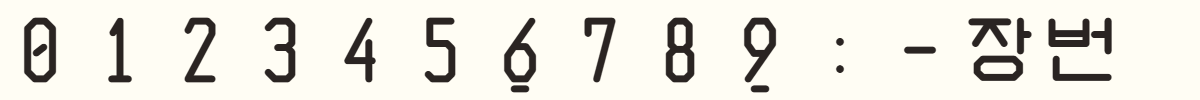
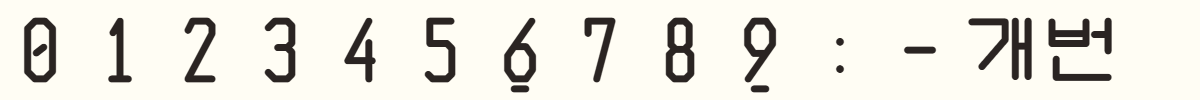
Fix long times and hint units in shared records; count Note 06 active time
Claude-Session: https://claude.ai/code/session_014xZr56KSBxKkeAwG41ZnWC

Changed region(s): [[0.8017, 0.18, 0.8633, 0.81]]

diff --git a/share.js b/share.js
@@ -31,7 +31,7 @@
     try{const w=localStorage.getItem('hn.wrong.'+NOTE);if(w!==null&&/^\d+$/.test(w))wrong=+w}catch{}
     return {ok,ms,hints,wrong};
   }
-  const fmt=ms=>{const m=Math.floor(ms/60000),s=Math.floor(ms/1000)%60;return EN?(m?`${m}m ${s}s`:`${s}s`):(m?`${m}분 ${s}초`:`${s}초`)};
+  const fmt=ms=>{const H=Math.floor(ms/3600000),m=Math.floor(ms/60000)%60,s=Math.floor(ms/1000)%60;return EN?(H?`${H}h ${m}m`:m?`${m}m ${s}s`:`${s}s`):(H?`${H}시간 ${m}분`:m?`${m}분 ${s}초`:`${s}초`)};
   // 공유 문구: 카톡 등에 글로 보이는 기록 (걸린 시간 · 힌트 · 틀린 암호) + 주소(미리보기 카드는 og 이미지)
   function recordText(){
     const r=rec(),g=grade()||(r.ok?T.done:T.open);
@@ -71,8 +71,8 @@
     const q=new URLSearchParams(location.search),r=q.get('r');if(!r)return;
     const num=k=>{const v=q.get(k);return v!==null&&/^\d{1,6}$/.test(v)?+v:-1};
     const t=num('t'),h=num('h'),w=num('w'),esc=s=>s.replace(/[&<>"]/g,c=>({'&':'&amp;','<':'&lt;','>':'&gt;','"':'&quot;'}[c]));
-    const clock=s=>`${Math.floor(s/60)}:${String(s%60).padStart(2,'0')}`;
-    const rows=[t>=0&&[T.time,clock(t)],h>=0&&[T.hints,EN?h:h+'장'],w>=0&&[T.wrong,EN?w:w+'번']].filter(Boolean);
+    const clock=s=>s>=3600?`${Math.floor(s/3600)}:${String(Math.floor(s/60)%60).padStart(2,'0')}:${String(s%60).padStart(2,'0')}`:`${Math.floor(s/60)}:${String(s%60).padStart(2,'0')}`;
+    const rows=[t>=0&&[T.time,clock(t)],h>=0&&[T.hints,EN?h:h+'개'],w>=0&&[T.wrong,EN?w:w+'번']].filter(Boolean);
     const css=document.createElement('style');css.textContent=`.hnfr{position:fixed;inset:0;z-index:9999;background:rgba(20,16,12,.62);display:flex;align-items:center;justify-content:center;padding:16px}
 .hnfr .c{width:100%;max-width:420px;background-color:#fffdf4;background-image:repeating-linear-gradient(transparent 0 37px,#c9d3e6 37px 38px);border-left:3px solid #e6a3a0;padding:20px 22px 18px;box-shadow:0 20px 40px rgba(0,0,0,.4);color:#2a2422;font-family:"Kkakdugi Drafting",var(--mono,monospace)}
 .hnfr .who{font-size:13px;color:#6b6358;margin:0 0 10px}

diff --git a/api/og.js b/api/og.js
@@ -13,8 +13,10 @@ module.exports=(req,res)=>{
     let file=`note${n}-${g}.png`;if(!n||!fs.existsSync(path.join(DIR,file)))file=`note${n||'02'}-0.png`;
     const b=load(file),base={w:b.w,h:b.h,px:new Uint8Array(b.px)},gl=load('glyphs.png'),bd=gl.bd||(gl.bd=P.glyphBounds(gl));
     const t=int(q.get('t')),h=int(q.get('h')),w=int(q.get('w'));
-    const vals=[t>=0?`${Math.floor(t/60)}:${String(t%60).padStart(2,'0')}`:'-',h>=0?h+'장':'-',w>=0?w+'번':'-'];
-    vals.forEach((v,i)=>P.stamp(base,gl,bd,v,RX,ROWS[i]+DY));
+    const clock=s=>s>=3600?`${Math.floor(s/3600)}:${String(Math.floor(s/60)%60).padStart(2,'0')}:${String(s%60).padStart(2,'0')}`:`${Math.floor(s/60)}:${String(s%60).padStart(2,'0')}`;
+    const vals=[t>=0?clock(t):'-',h>=0?h+'개':'-',w>=0?w+'번':''];
+    if(w<0)for(let y=414;y<526;y++)for(let x=752;x<1126;x++){const d=(y*base.w+x)*3;base.px[d]=255;base.px[d+1]=253;base.px[d+2]=244} // 틀린 암호를 안 세는 노트는 셋째 줄을 지운다
+    vals.forEach((v,i)=>v&&P.stamp(base,gl,bd,v,RX,ROWS[i]+DY));
     const png=P.build(base.w,base.h,zlib.deflateSync(Buffer.from(P.toRaw(base.px,base.w,base.h)),{level:6}));
     res.statusCode=200;res.setHeader('Content-Type','image/png');res.setHeader('Cache-Control','public, max-age=31536000, immutable');res.end(Buffer.from(png));
   }catch(e){res.statusCode=302;res.setHeader('Location','/og/main.png');res.end()}

diff --git a/api/r.js b/api/r.js
@@ -23,7 +23,8 @@ module.exports=(req,res)=>{
   const p=new URLSearchParams();if(en)p.set('lang','en');if(grade)p.set('r',grade);stat.forEach((v,k)=>p.set(k,v));
   const to=`${BASE}/notes/${n}/?${p}`;
   const title=`「${note.t}」 ${grade||'기록'}`;
-  const desc=[t>=0&&`${Math.floor(t/60)}:${String(t%60).padStart(2,'0')}`,h>=0&&`힌트 ${h}장`].filter(Boolean).join(' · ')+' — 너도 해 볼래?';
+  const clock=s=>s>=3600?`${Math.floor(s/3600)}:${String(Math.floor(s/60)%60).padStart(2,'0')}:${String(s%60).padStart(2,'0')}`:`${Math.floor(s/60)}:${String(s%60).padStart(2,'0')}`;
+  const desc=[t>=0&&clock(t),h>=0&&`힌트 ${h}개`].filter(Boolean).join(' · ')+' — 너도 해 볼래?';
   res.statusCode=200;
   res.setHeader('Content-Type','text/html; charset=utf-8');
   res.setHeader('Cache-Control','public, max-age=86400');

diff --git a/og/glyphs.html b/og/glyphs.html
@@ -2,4 +2,4 @@
 <!-- api/og.js 숫자 글자판: 칸 하나 80×100, 순서 = GLYPHS. 바탕색은 rec.html 값 칸(#fffdf4) -->
 <style>html,body{margin:0;width:1200px;height:100px;overflow:hidden;background:#fffdf4}
 .g{display:flex}.g span{width:80px;height:100px;display:flex;align-items:center;justify-content:center;font-family:'Kkakdugi Drafting',monospace;font-weight:700;font-size:70px;color:#2a2422}</style>
-</head><body><div class="g" id="g"></div><script>g.innerHTML=[...'0123456789:-장번'].map(c=>`<span>${c}</span>`).join('')</script></body></html>
+</head><body><div class="g" id="g"></div><script>g.innerHTML=[...'0123456789:-개번'].map(c=>`<span>${c}</span>`).join('')</script></body></html>

diff --git a/api/_png.js b/api/_png.js
@@ -37,7 +37,7 @@ function build(w,h,zdata){
 }
 
 // 글자판: 칸 80×100, 칸마다 잉크가 있는 가로 범위를 찾아 둔다
-const GLYPHS='0123456789:-장번',CW=80,CH=100;
+const GLYPHS='0123456789:-개번',CW=80,CH=100;
 function glyphBounds(g){const b={};[...GLYPHS].forEach((ch,i)=>{let l=CW,r=-1;
   for(let x=0;x<CW;x++)for(let y=0;y<CH;y++){const p=(y*g.w+i*CW+x)*3;if(g.px[p]+g.px[p+1]+g.px[p+2]<600){if(x<l)l=x;if(x>r)r=x;break}}
   b[ch]=r<0?{l:0,r:CW/4}:{l,r}});return b}
